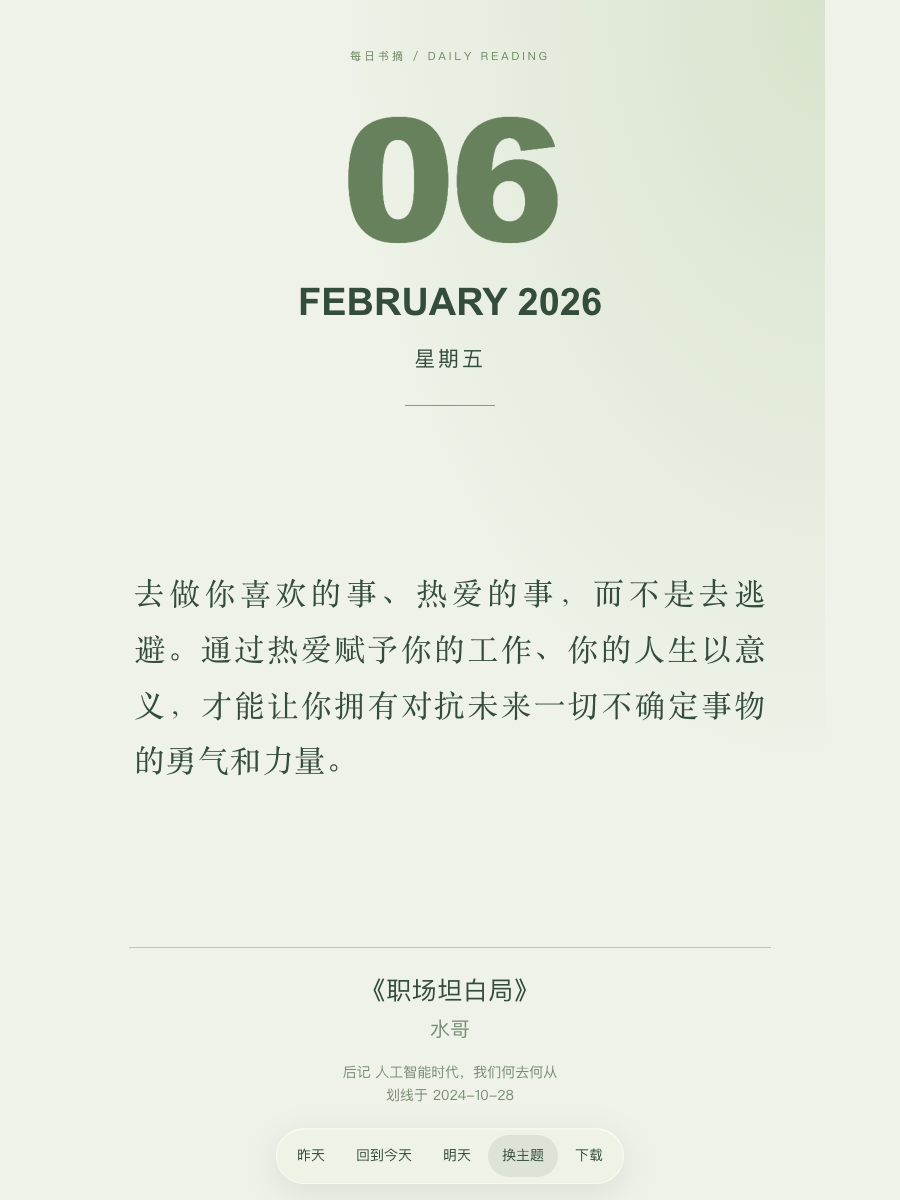
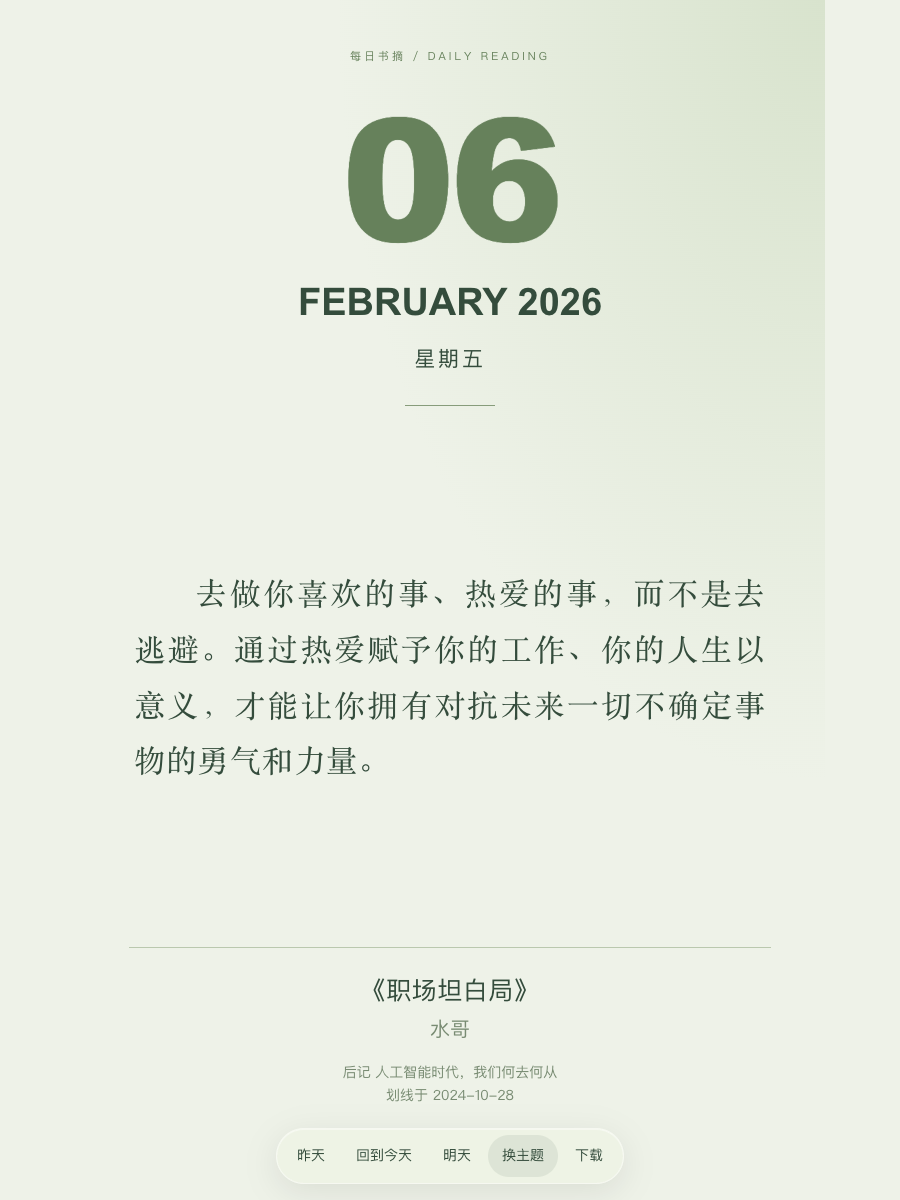
Apply two-character excerpt first-line indentation

Changed region(s): [[0.1556, 0.4625, 0.84, 0.6475]]

diff --git a/docs/layout.css b/docs/layout.css
@@ -9,7 +9,7 @@ html body .card .month{font-size:clamp(20px,3.5vh,38px)!important;line-height:1.
 html body .card .weekday{font-size:clamp(14px,2vh,21px);line-height:1.4;margin:clamp(8px,1.6vh,18px) 0 0}
 html body .card>.rule{flex:none;margin:clamp(14px,2.8vh,32px) auto;height:1px}
 html body .card>.quote{display:flex;flex-direction:column;flex:1 1 0;min-height:0;margin:0;padding:8px 5px 12px;overflow:auto;overscroll-behavior:contain;border:0;box-shadow:none;border-radius:0;background:transparent;scrollbar-width:thin}
-html body .card .quote-text{flex:none;display:block;width:100%;margin:auto 0;text-align:justify;overflow-wrap:anywhere;font-size:var(--quote-font,23px)!important;line-height:1.8!important;letter-spacing:1px;white-space:pre-line}
+html body .card .quote-text{flex:none;display:block;width:100%;margin:auto 0;text-align:justify;text-indent:2em;overflow-wrap:anywhere;font-size:var(--quote-font,23px)!important;line-height:1.8!important;letter-spacing:1px;white-space:pre-line}
 html[data-theme=pop] body .card .quote-text{width:calc(100% - 8px);padding:clamp(12px,2vh,24px);background:#fff8e9;border:2px solid #4c3b97;border-radius:4px;box-shadow:6px 6px 0 #4c3b97}
 html body .card>.source{flex:none;margin-top:clamp(14px,2.4vh,28px);padding-top:clamp(12px,2vh,24px);max-height:30vh;overflow:auto;scrollbar-width:thin}
 html body .card .book{font-size:clamp(17px,2.6vh,25px);line-height:1.5;letter-spacing:.5px}

diff --git a/skills/weread-calendar/assets/site/layout.css b/skills/weread-calendar/assets/site/layout.css
@@ -9,7 +9,7 @@ html body .card .month{font-size:clamp(20px,3.5vh,38px)!important;line-height:1.
 html body .card .weekday{font-size:clamp(14px,2vh,21px);line-height:1.4;margin:clamp(8px,1.6vh,18px) 0 0}
 html body .card>.rule{flex:none;margin:clamp(14px,2.8vh,32px) auto;height:1px}
 html body .card>.quote{display:flex;flex-direction:column;flex:1 1 0;min-height:0;margin:0;padding:8px 5px 12px;overflow:auto;overscroll-behavior:contain;border:0;box-shadow:none;border-radius:0;background:transparent;scrollbar-width:thin}
-html body .card .quote-text{flex:none;display:block;width:100%;margin:auto 0;text-align:justify;overflow-wrap:anywhere;font-size:var(--quote-font,23px)!important;line-height:1.8!important;letter-spacing:1px;white-space:pre-line}
+html body .card .quote-text{flex:none;display:block;width:100%;margin:auto 0;text-align:justify;text-indent:2em;overflow-wrap:anywhere;font-size:var(--quote-font,23px)!important;line-height:1.8!important;letter-spacing:1px;white-space:pre-line}
 html[data-theme=pop] body .card .quote-text{width:calc(100% - 8px);padding:clamp(12px,2vh,24px);background:#fff8e9;border:2px solid #4c3b97;border-radius:4px;box-shadow:6px 6px 0 #4c3b97}
 html body .card>.source{flex:none;margin-top:clamp(14px,2.4vh,28px);padding-top:clamp(12px,2vh,24px);max-height:30vh;overflow:auto;scrollbar-width:thin}
 html body .card .book{font-size:clamp(17px,2.6vh,25px);line-height:1.5;letter-spacing:.5px}
